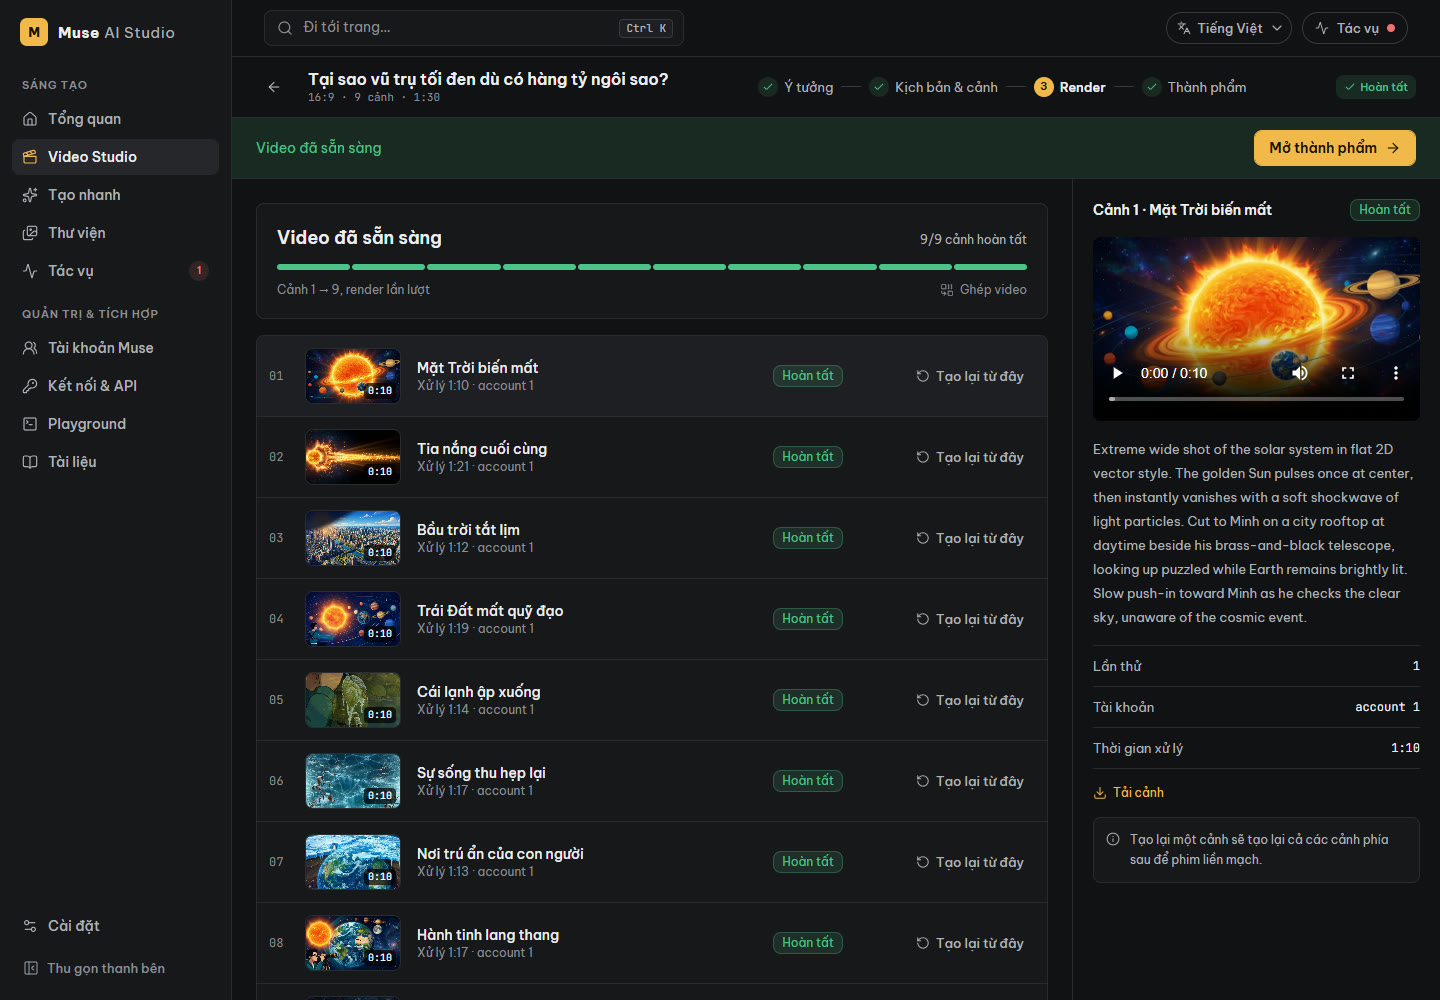
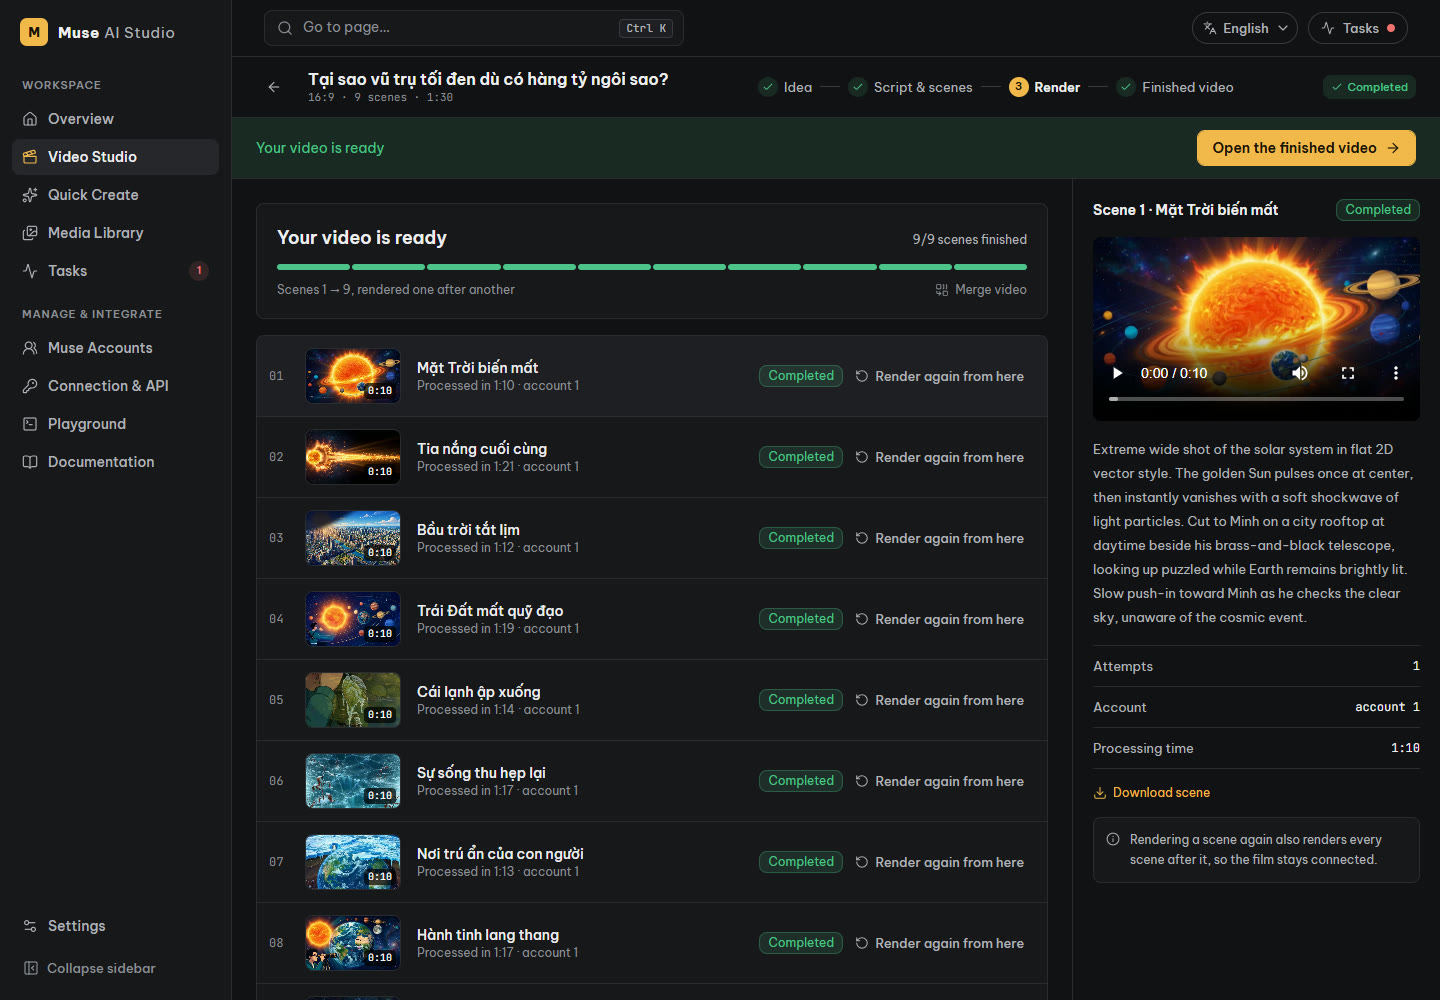
feat: update README for English localization and improve clarity; modify .gitignore to include docs and design directories; update screenshot assets

diff --git a/README.md b/README.md
@@ -1,104 +1,104 @@
 # Muse AI Studio
 
-**Biến một ý tưởng thành phim AI hoàn chỉnh, ngay trên máy của bạn.**
+**Turn an idea into a finished AI film, on your own machine.**
 
-Muse AI Studio là xưởng làm video tự cài (self-hosted) chạy bằng tài khoản [Muse](https://muse.ai) của chính bạn. Bạn đưa ý tưởng; ứng dụng viết kịch bản, dựng từng cảnh, ghép thành phim, rồi để bạn cắt ghép, thêm nhạc và phụ đề trong trình duyệt. Không cần phần mềm dựng phim, không cần tải lên dịch vụ nào khác.
+Muse AI Studio is a self-hosted video studio that runs on your own [Muse](https://muse.ai) account. You bring the idea; the app writes the script, renders each scene, merges them into a film, and lets you cut, add music and add captions in the browser. No editing software to install, nothing to upload to another service.
 
-![Thành phẩm của một dự án: phim đã ghép và 9 cảnh](assets/screenshots/editor.jpg)
+![A finished project: the merged film and its nine scenes](assets/screenshots/editor.jpg)
 
-## Vì sao dùng
+## Why use it
 
-- **Một mạch từ ý tưởng tới phim.** Không phải chép prompt qua lại giữa các công cụ: ý tưởng → kịch bản → cảnh → phim nằm trong một dự án.
-- **Bạn giữ quyền quyết định.** Kịch bản do AI viết nhưng bạn duyệt và sửa từng cảnh trước khi tốn quota dựng.
-- **Sửa phim không cần dựng lại.** Đổi thứ tự, cắt, thêm nhạc hay phụ đề chỉ ghép lại từ các cảnh đã có.
-- **Dữ liệu ở máy bạn.** Phim, ảnh, kịch bản và phiên đăng nhập (được mã hoá) đều nằm trong một thư mục trên máy.
-- **Mở cho ứng dụng khác.** Có API chuẩn OpenAI để gọi từ script hay công cụ tự động hoá.
+- **One path from idea to film.** No copying prompts between tools: idea → script → scenes → film all live in one project.
+- **You stay in charge.** The AI writes the script, but you review and edit every scene before any quota is spent on rendering.
+- **Edit without rendering again.** Reordering, trimming, adding music or captions only merges the scenes you already have.
+- **Your data stays with you.** Films, pictures, scripts and your (encrypted) sign-in session all sit in one folder on your machine.
+- **Open to other apps.** An OpenAI-compatible API lets scripts and automation tools generate through it.
 
-## Từ ý tưởng tới phim
+## From idea to film
 
-Mỗi dự án đi qua bốn bước: **Ý tưởng → Kịch bản & cảnh → Render → Thành phẩm**.
+Every project goes through four steps: **Idea → Script & scenes → Render → Finished video**.
 
-1. **Ý tưởng.** Tên, câu chuyện, thời lượng (tới 60 phút), tỉ lệ khung hình, phong cách hình ảnh, ngôn ngữ; có thể đính kèm ảnh/video tham chiếu.
-2. **Kịch bản & cảnh.** Muse chia câu chuyện thành các cảnh 5–10 giây kèm lời dẫn. Bạn sửa, thêm, bớt, sắp lại tuỳ ý.
-3. **Render.** Mỗi cảnh được dựng thành một video; các cảnh có thể nối liền mạch với nhau. Cảnh nào chưa ưng thì tạo lại từ cảnh đó.
-4. **Thành phẩm.** Phim được ghép tự động và mở ra trong trình biên tập.
+1. **Idea.** A name, the story, the length (up to 60 minutes), the aspect ratio, the visual look and the language; you can attach reference pictures or videos.
+2. **Script & scenes.** Muse splits the story into scenes of 5–10 seconds with narration. Edit, add, remove and reorder them as you like.
+3. **Render.** Each scene becomes a video, and scenes can carry on seamlessly from one another. Not happy with one? Render again from that scene.
+4. **Finished video.** The film is merged automatically and opens in the editor.
 
-![Bước Render: từng cảnh một, theo dõi tiến độ và tạo lại khi cần](assets/screenshots/render.jpg)
+![The Render step: scene by scene, with progress and re-rendering](assets/screenshots/render.jpg)
 
-## Trình biên tập ngay trong trình duyệt
+## An editor in the browser
 
-![Dòng thời gian: video, âm thanh, phụ đề và chữ](assets/screenshots/timeline.jpg)
+![The timeline: video, audio, subtitles and titles](assets/screenshots/timeline.jpg)
 
-- Kéo thả để sắp xếp, kéo mép để cắt, tách đôi clip, đổi tốc độ từng clip hoặc cả phim.
-- Hiệu ứng màu, phóng chậm, lật hình, mờ dần giữa các clip.
-- Chèn video, ảnh, âm thanh của bạn; nhờ Muse tạo nhạc nền; tự hạ nhạc khi có tiếng.
-- Phụ đề (tạo sẵn từ lời dẫn), tiêu đề và logo; xuất kèm tệp `.srt`.
-- Chọn tỉ lệ, độ phân giải, chất lượng khi xuất; chọn ảnh bìa.
-- Xem thử trước khi ghép, hoàn tác/làm lại, bản nháp được giữ khi lỡ rời trang.
+- Drag to reorder, drag an edge to trim, cut a clip in two, change the speed of one clip or of the whole film.
+- Colour looks, slow zoom, mirroring, fades between clips.
+- Add your own videos, pictures and audio; ask Muse for background music; lower the music automatically under speech.
+- Captions (prefilled from the narration), titles and a logo; export an `.srt` file as well.
+- Choose the aspect ratio, resolution and quality of the export; pick the cover image.
+- Preview before merging, undo and redo, and a draft that survives leaving the page.
 
-## Tạo nhanh và Thư viện
+## Quick Create and the Media Library
 
-Cần một tấm ảnh hay một video ngắn mà không muốn lập dự án? **Tạo nhanh** nhận một câu mô tả (kèm ảnh tham chiếu nếu muốn) và trả kết quả vào **Thư viện**, nơi gom mọi video, ảnh, âm thanh đã tạo hoặc tải lên. Tư liệu trong thư viện dùng lại được cho mọi dự án.
+Need a single picture or a short video without setting up a project? **Quick Create** takes one description (and a reference picture if you want) and puts the result in the **Media Library**, which collects every video, picture and audio file you have made or uploaded. Anything in the library can be reused in any project.
 
-![Thư viện: mọi thứ đã tạo hoặc tải lên, lọc theo loại và nguồn](assets/screenshots/library.jpg)
+![The Media Library: everything made or uploaded, filtered by kind and source](assets/screenshots/library.jpg)
 
-## Luôn biết mọi thứ đang ở đâu
+## Always know where things stand
 
-Trang **Tổng quan** cho thấy dự án đang làm dở, tác vụ đang chạy, việc cần bạn xử lý và tình trạng các tài khoản Muse. Trang **Tác vụ** theo dõi từng việc chạy nền: huỷ, thử lại hoặc xoá.
+The **Overview** shows the project you were working on, what is running, what needs your attention and the state of your Muse accounts. **Tasks** follows every background job, which you can cancel, retry or delete.
 
-![Tổng quan](assets/screenshots/overview.jpg)
+![Overview](assets/screenshots/overview.jpg)
 
-## Dùng nhiều tài khoản Muse
+## Several Muse accounts
 
-Nhập một hay nhiều tài khoản bằng phiên đăng nhập từ trình duyệt (trong ứng dụng có hướng dẫn từng bước). Ứng dụng tự chia việc giữa các tài khoản, giữ phiên sống, theo dõi quota và hỗ trợ proxy riêng cho từng tài khoản.
+Import one or more accounts using the sign-in session of your browser (the app walks you through it). Work is shared between the accounts, sessions are kept alive, quota is tracked, and each account can have its own proxy.
 
-## API cho ứng dụng của bạn
+## An API for your own apps
 
-Muse AI Studio nói chuyện theo chuẩn OpenAI: dùng SDK OpenAI sẵn có, chỉ đổi Base URL và khoá. Tạo khoá ở trang **Kết nối & API**, thử ngay ở **Playground**, tra cứu ở **Tài liệu**.
+Muse AI Studio speaks the OpenAI protocol: use the OpenAI SDK you already have and change only the Base URL and the key. Create a key on **Connection & API**, try it in the **Playground**, look things up in **Documentation**.
 
-![Kết nối & API](assets/screenshots/api.jpg)
+![Connection & API](assets/screenshots/api.jpg)
 
 ```python
 import os
 from openai import OpenAI
 
 client = OpenAI(base_url="http://localhost:5173/v1", api_key=os.environ["MUSE_API_KEY"])
-image = client.images.generate(model="muse-image", prompt="Ly cà phê sữa đá trên bậu cửa sổ, nắng sớm")
+image = client.images.generate(model="muse-image", prompt="A glass of iced coffee on a window sill, morning light")
 print(image.data[0].url)
 ```
 
-## Bắt đầu
+## Getting started
 
-Cần có Python 3.12+ với [uv](https://docs.astral.sh/uv/getting-started/installation/), Node.js 22.12+, FFmpeg, Chrome (hoặc Chromium/Edge) và một tài khoản Muse.
+You need Python 3.12+ with [uv](https://docs.astral.sh/uv/getting-started/installation/), Node.js 22.12+, FFmpeg, Chrome (or Chromium/Edge) and a Muse account.
 
 ```bash
-# Cửa sổ 1: máy chủ
+# Terminal 1: the server
 cd backend
 uv sync --locked
 uv run uvicorn app.main:app --host 127.0.0.1 --port 18610
 
-# Cửa sổ 2: giao diện
+# Terminal 2: the interface
 cd frontend
 npm ci
 npm run dev
 ```
 
-Mở `http://localhost:5173`, rồi:
+Open `http://localhost:5173`, then:
 
-1. Vào **Tài khoản Muse** → **Hướng dẫn lấy token**, làm theo để lấy phiên đăng nhập.
-2. Bấm **Nhập tài khoản**, dán vào, rồi bấm **Kiểm tra**.
-3. Vào **Video Studio** tạo dự án đầu tiên, hoặc **Tạo nhanh** để thử một tấm ảnh.
+1. Go to **Muse Accounts** → **How to get the token** and follow the steps to copy your sign-in session.
+2. Press **Import account**, paste it, then press **Test**.
+3. Create your first project in **Video Studio**, or try a picture in **Quick Create**.
 
-Trang **Cài đặt** cho biết ứng dụng đã tìm thấy FFmpeg và trình duyệt chưa. Giao diện có tiếng Việt và tiếng Anh.
+The **Settings** page tells you whether the app has found FFmpeg and a browser. The interface is available in English and Vietnamese.
 
-Cấu hình, sao lưu dữ liệu và chi tiết kỹ thuật: xem [backend/README.md](backend/README.md) và [frontend/README.md](frontend/README.md).
+Configuration, backing up your data and the technical details are in [backend/README.md](backend/README.md) and [frontend/README.md](frontend/README.md).
 
-## Cần biết trước khi dùng
+## Before you use it
 
-- Đây **không phải** sản phẩm chính thức của Muse. Ứng dụng điều khiển giao diện web của Muse bằng phiên đăng nhập của bạn; mỗi lượt tạo dùng quota của tài khoản bạn và phải tuân theo điều khoản của Muse. Khi Muse đổi giao diện, việc tạo nội dung có thể tạm hỏng.
-- Ứng dụng **không có đăng nhập**: ai mở được địa chỉ của nó cũng dùng được mọi thứ. Chỉ chạy trên máy cá nhân hoặc mạng bạn tin cậy.
-- Phim dài tốn nhiều quota và thời gian: mỗi cảnh là một lượt tạo trên Muse.
+- This is **not** an official Muse product. The app drives the Muse website with your own sign-in session; every generation uses your account's quota and is subject to Muse's terms. When Muse changes its website, generation may break for a while.
+- The app has **no login**: anyone who can open its address can use everything in it. Run it on your own machine or a network you trust.
+- Long films take a lot of quota and time: each scene is one generation on Muse.
 
-## Giấy phép
+## License
 
 [MIT](LICENSE)
